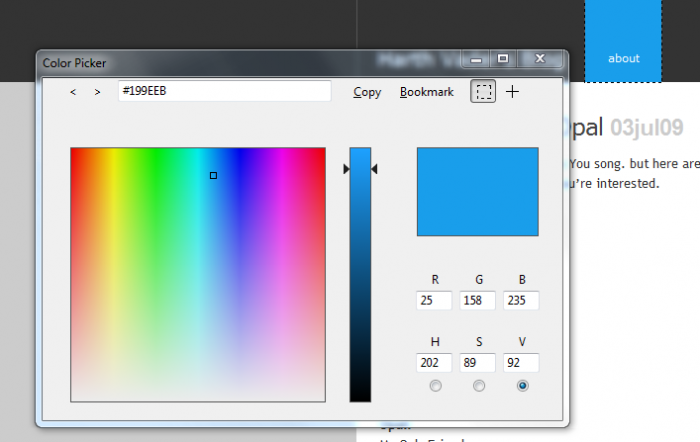
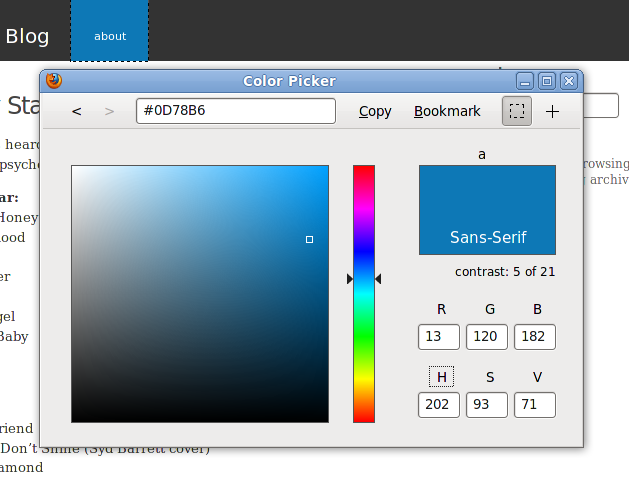
update picker and analyzer screenshots

diff --git a/index.html b/index.html
@@ -35,6 +35,11 @@ body {
 .sub-section-header {
 }
 
+img {
+  border: 5px solid #ccc;
+  -moz-border-radius: 2px;
+}
+
 </style>
 </head>
 <body>
@@ -61,7 +66,7 @@ body {
           <div class="sub-section-header">
             website analyzer
           </div>
-          <img src="analyzer.png">
+          <img src="analyzer_gh.png">
         </div>
 
         <div class="sub-section">
